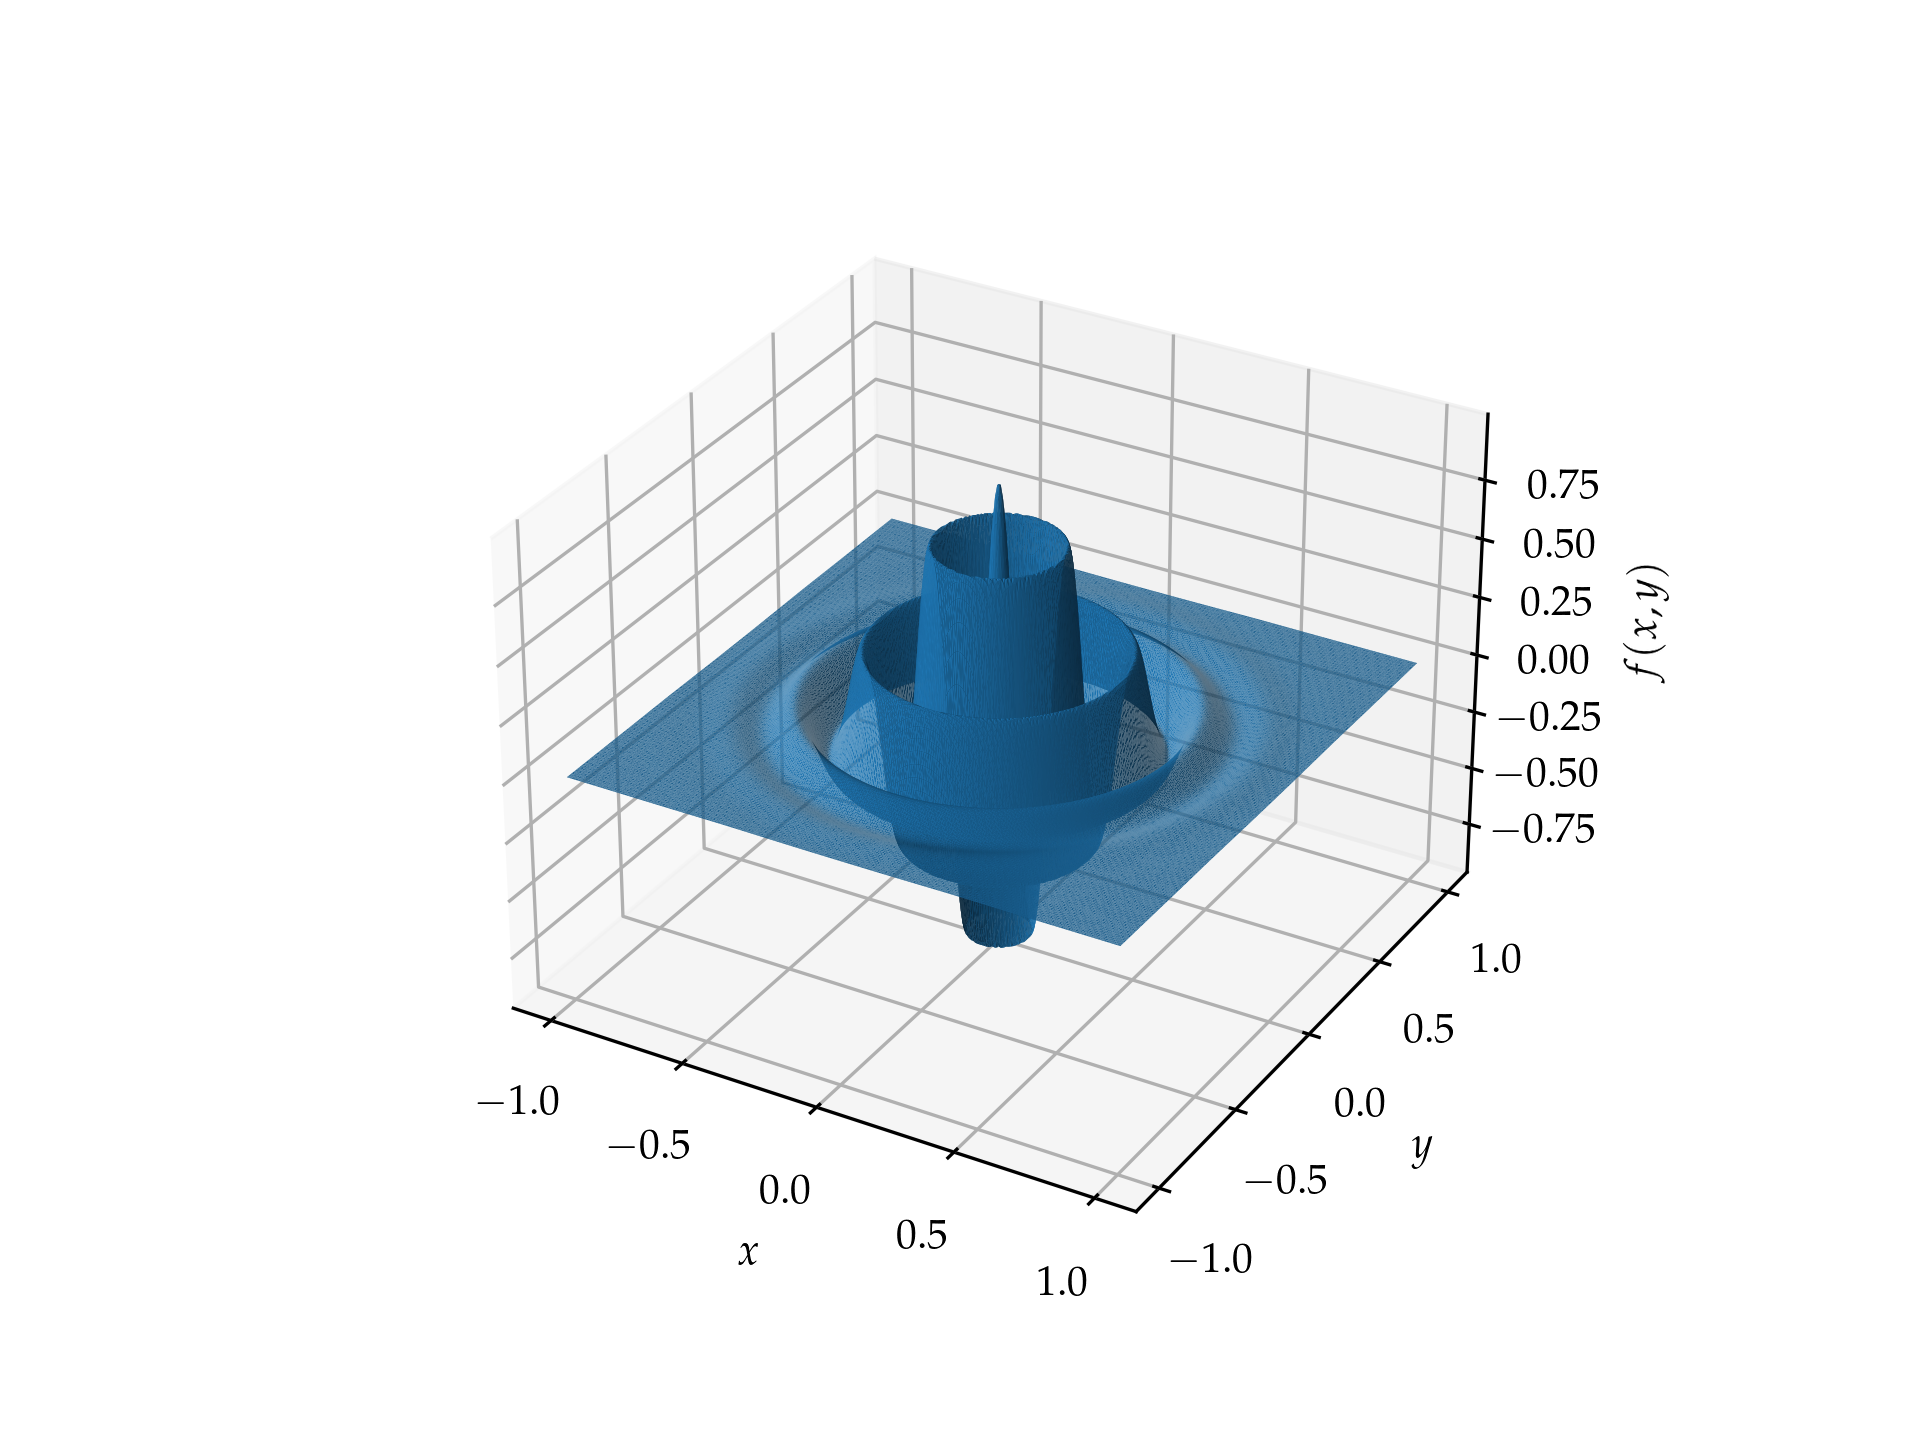
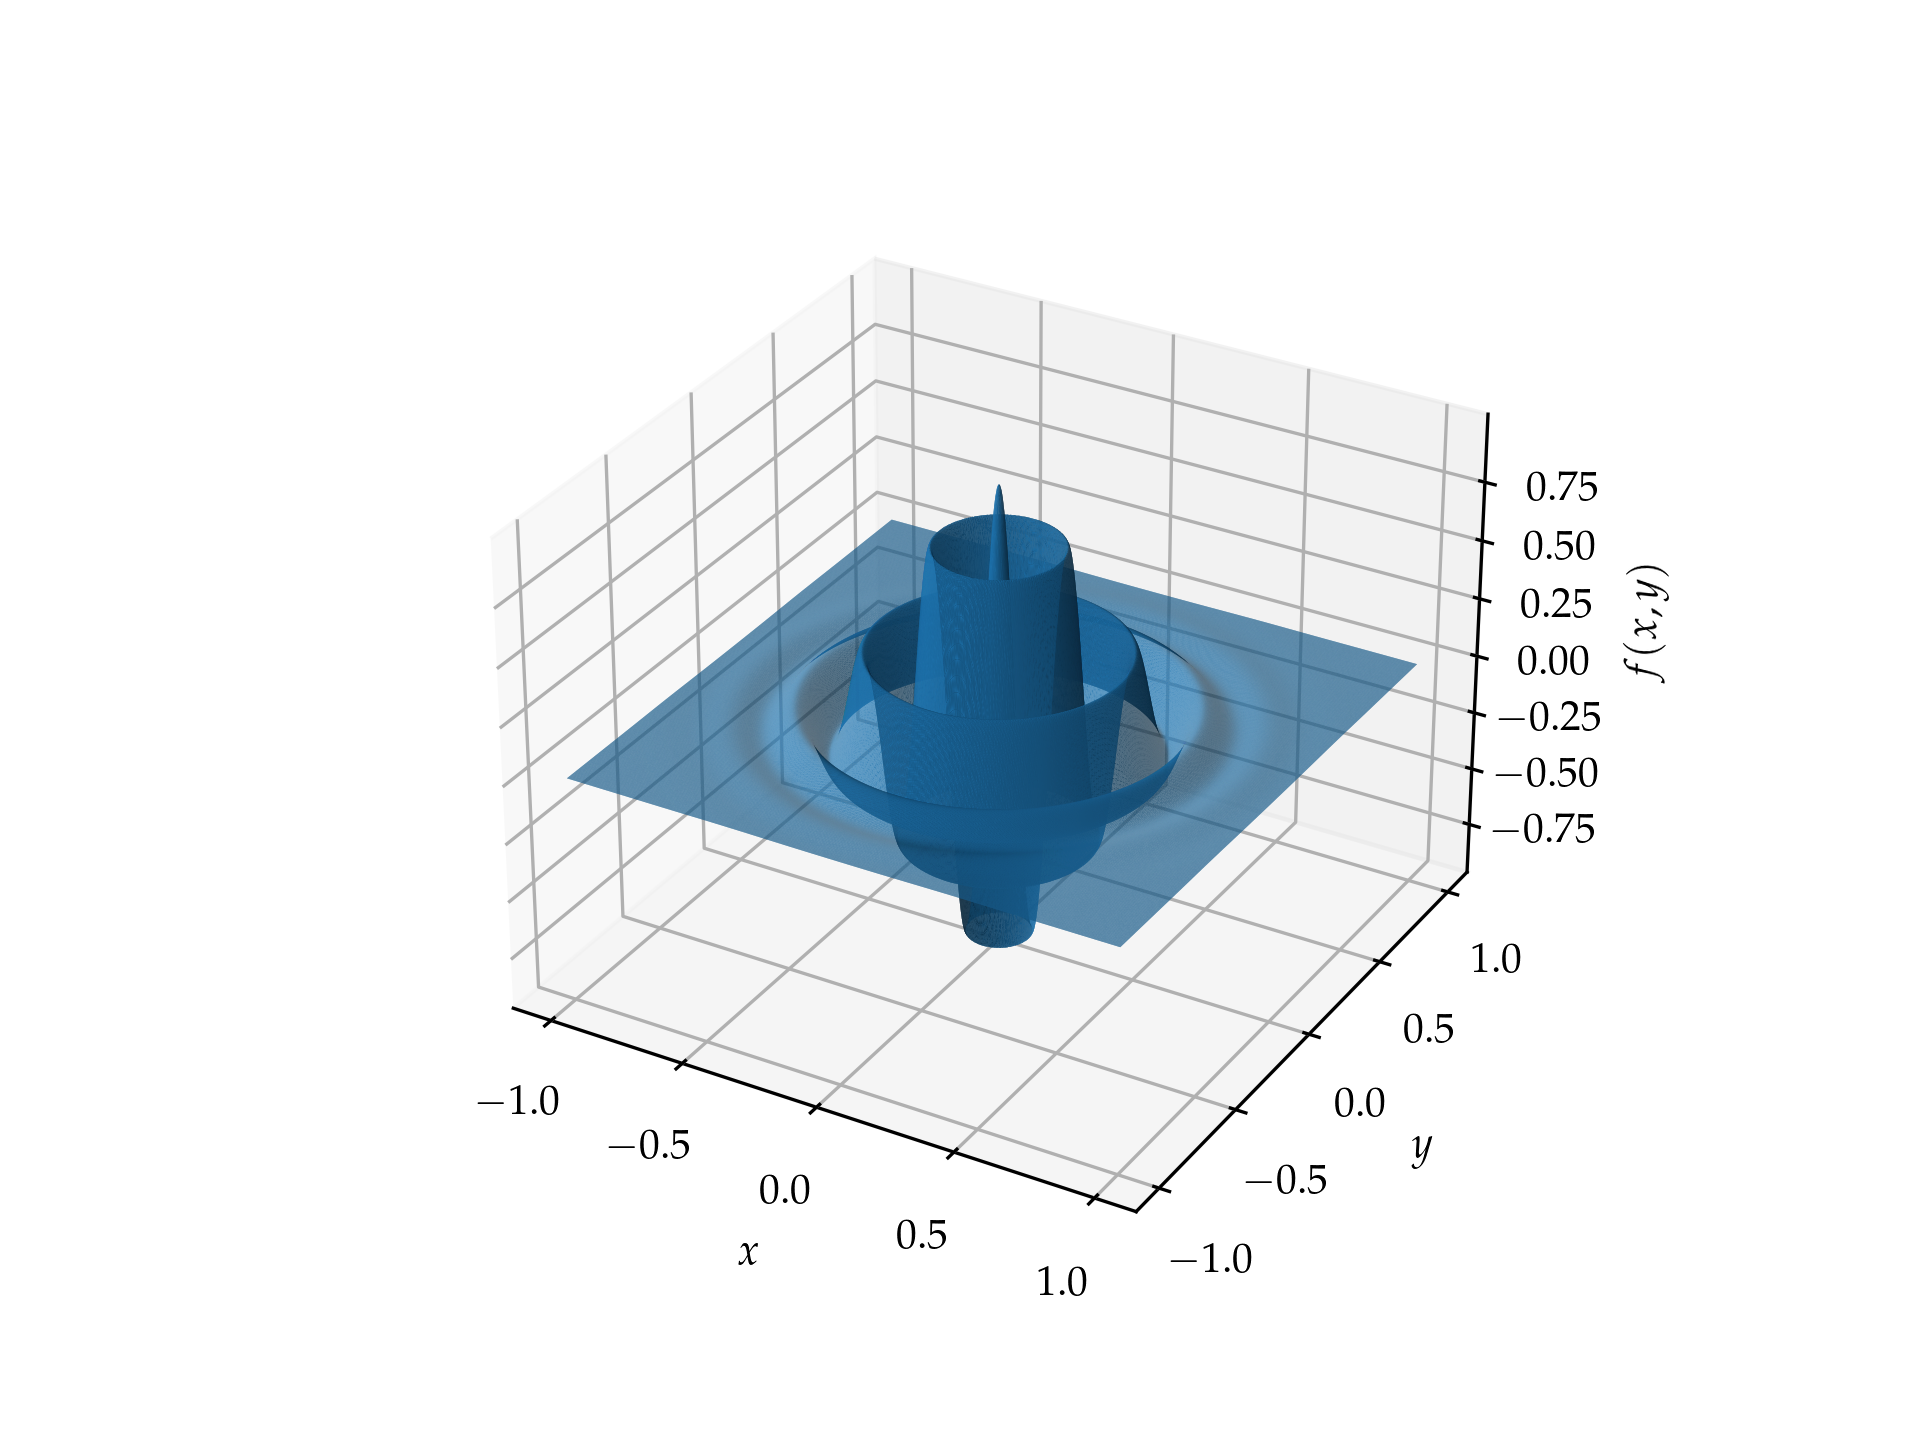
Melhorando qualidade da figura 1

diff --git a/scripts/figure1.py b/scripts/figure1.py
@@ -49,7 +49,7 @@ ax = fig.add_subplot(projection="3d")
 
 # Setting up labels
 ax.set(xlabel=r"$x$", ylabel=r"$y$", zlabel=r"$f(x, y)$")
-x = y = np.linspace(-1, 1, 250)
+x = y = np.linspace(-1, 1, 500)
 x, y = np.meshgrid(x, y)
 
 # Ploting the fig
